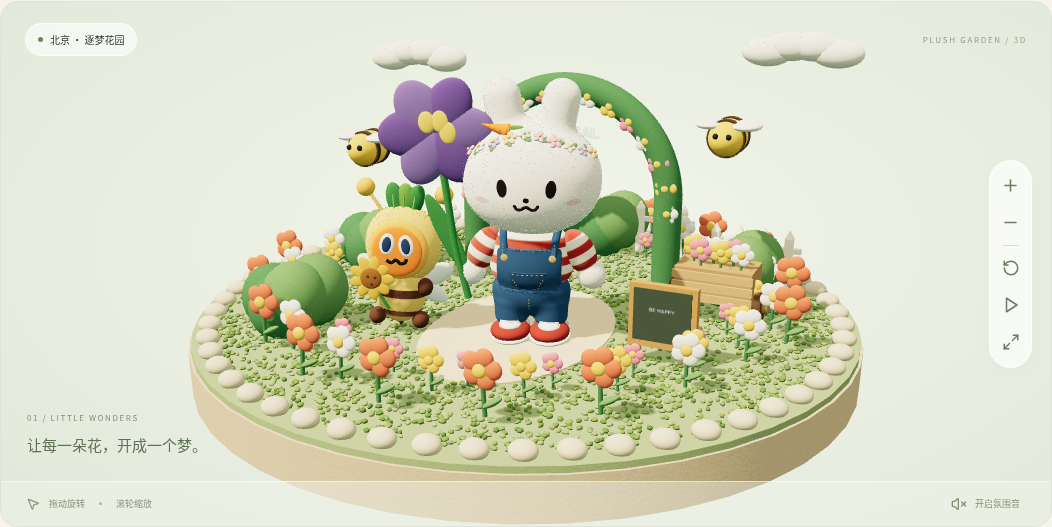
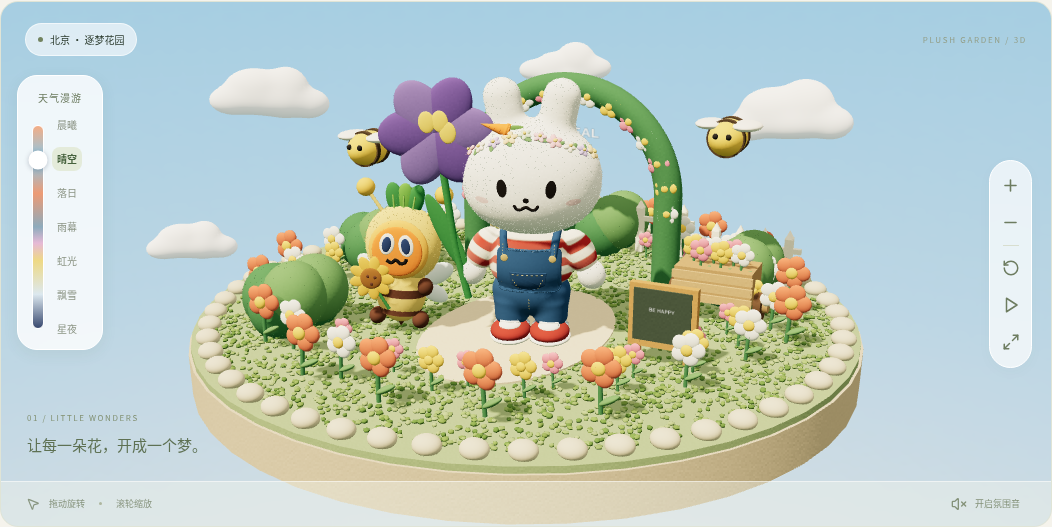
Turn weather control into an atmosphere tour and soften clouds and rabbit shoulders

diff --git a/src/style.css b/src/style.css
@@ -1,11 +1,15 @@
 @import url('https://fonts.googleapis.com/css2?family=Noto+Sans+SC:wght@400;500;600;700;800;900&family=DM+Sans:wght@400;500;600;700&display=swap');
 :root{font-family:'DM Sans','Noto Sans SC',sans-serif;color:#2e3d30;background:#f5f3ec;font-synthesis:none;font-weight:400}*{box-sizing:border-box}body{margin:0}button,a{-webkit-tap-highlight-color:transparent}button{font:inherit;cursor:pointer}button:focus-visible,a:focus-visible{outline:3px solid #b2bc70;outline-offset:4px}a{color:inherit;text-decoration:none}button{color:inherit}header{height:98px;display:flex;align-items:center;margin:0 5%;border-bottom:1px solid #dedfd3;gap:65px}.brand{font-weight:900;font-size:24px;letter-spacing:-1.4px;line-height:.95;display:flex;flex-direction:column;transform:rotate(-3deg)}.brand>span{font-size:25px;letter-spacing:4px}.brand-dot{color:#97a65b;font-size:26px}nav{display:flex;gap:36px;font-size:12px;align-items:center;height:100%}nav a{height:100%;display:flex;align-items:center;gap:10px;position:relative}nav a.selected:after{content:'';position:absolute;bottom:-1px;left:0;width:30px;height:3px;background:#577b52}nav a span{font-size:9px;letter-spacing:1px;color:#9b9e91}nav button{display:flex;align-items:center;gap:8px;border:0;background:none}.header-end{margin-left:auto;display:flex;gap:9px;align-items:center;font-size:11px;color:#8a8c7d}.live-dot{width:6px;height:6px;border-radius:50%;display:inline-block;background:#819964;flex-shrink:0}.edition{margin-left:28px;border:1px solid #d8dacc;border-radius:20px;padding:7px 11px;font-size:9px;letter-spacing:1px}main{max-width:1550px;margin:auto;padding:45px 5% 0}.intro{position:relative;margin-bottom:31px}.eyebrow{font-size:9px;letter-spacing:2.5px;font-weight:600;color:#858b76;display:flex;gap:9px;align-items:center}.eyebrow>span{width:5px;height:5px;border-radius:50%;background:#899d63}h1{font-size:clamp(34px,3.7vw,57px);font-weight:800;letter-spacing:-2px;margin:14px 0 10px;line-height:1.3}.serif{font-family:serif;color:#698056;font-weight:500;margin-left:4px}.title-flower{display:inline-block;font-size:46px;color:#b3bb78;position:relative;top:-8px;margin-left:23px;font-weight:400}.intro-bottom{display:flex;align-items:center;justify-content:space-between}.intro-bottom p{font-size:12px;line-height:1.9;color:#8b8e80;margin:0}.intro-note{text-align:right;font-size:11px;line-height:1.9;color:#69725e}.intro-note span{font-size:10px;color:#a0a28f}.experience{display:grid;grid-template-columns:218px 1fr;gap:26px}.section-label{display:flex;justify-content:space-between;font-size:11px;margin-bottom:15px;color:#6f7866}.section-label span{font-size:9px;letter-spacing:1px;color:#a1a591}.scene-list{display:flex;flex-direction:column;gap:12px}.scene-card{position:relative;display:block;width:100%;height:145px;border:1px solid #dfe1d3;border-radius:13px;background:#ebece2;padding:13px 16px;text-align:left;overflow:hidden;transition:background .25s,transform .25s,border-color .25s}.scene-card:hover{transform:translateX(3px);border-color:#a4b494}.scene-card.active{border:1.5px solid #6d855f;background:#e7ecd9}.card-top{position:relative;z-index:2;display:flex;gap:10px;align-items:center}.scene-number{font-size:10px;color:#8a9580}.city{font-size:10px;border:1px solid #b7c4a9;border-radius:12px;padding:2px 7px;color:#6b7d61}.card-top>svg{margin-left:auto;color:var(--accent)}.card-bottom{position:absolute;bottom:16px;z-index:2}.card-bottom h3{font-size:18px;font-weight:600;margin:0 0 5px;letter-spacing:1px}.card-bottom>span{font-size:7px;letter-spacing:1.6px;color:#929a87}.mini-art{position:absolute;right:19px;top:45px;color:var(--accent);transform:rotate(-15deg)}.mini-orbit{position:absolute;width:86px;height:86px;border-radius:50%;background:#d5dfc5;top:-15px;left:-20px;z-index:0}.mini-art svg{position:relative;z-index:1}.mini-star{position:absolute;right:-14px;top:-15px;color:#c6ae67;font-size:20px}.mini-dot{width:10px;height:10px;border-radius:50%;background:#e4c475;position:absolute;bottom:-5px;left:-18px}.art-1 .mini-orbit{background:#dddde7}.art-2 .mini-orbit{background:#d5e4df}.sidebar-note{display:flex;gap:12px;align-items:center;padding:22px 4px;color:#9aa381}.sidebar-note>span{font-size:27px}.sidebar-note p{font-size:10px;line-height:1.8;margin:0}.sidebar-note strong{font-weight:400;font-size:9px;color:#a2a58f}.stage-wrap{height:526px;position:relative;border:1px solid #e0e4d6;border-radius:18px;overflow:hidden;background:radial-gradient(ellipse at 53% 46%,#f3f5e9 0%,#e6ecdf 70%,#e1e8d8 100%);transition:background .5s}.theme-1 .stage-wrap{background:radial-gradient(ellipse at 50% 48%,#d9dcec,#b6c1d2)}.theme-2 .stage-wrap{background:radial-gradient(ellipse at 50% 48%,#e8f0e7,#d8e7df)}.stage{position:absolute;inset:0}.stage canvas{display:block;touch-action:none}.stage-top{position:absolute;top:21px;left:24px;right:24px;display:flex;justify-content:space-between;align-items:center;z-index:2;pointer-events:none}.scene-pill{font-size:10px;background:#ffffff9c;border:1px solid #fff9;border-radius:20px;padding:8px 12px;display:flex;gap:7px;align-items:center}.scene-pill>span{width:5px;height:5px;border-radius:50%;background:#72835f}.stage-tag{font-size:8px;letter-spacing:1.7px;color:#939e87}.stage-caption{position:absolute;left:26px;bottom:63px;pointer-events:none}.stage-caption>span{font-size:8px;letter-spacing:1.6px;color:#829173}.stage-caption h2{font-size:15px;font-weight:500;margin:8px 0;color:#5e7153}.floating-tools{position:absolute;right:19px;top:50%;transform:translateY(-50%);background:#ffffffb5;backdrop-filter:blur(10px);border:1px solid #fff;border-radius:25px;display:flex;flex-direction:column;align-items:center;padding:7px 3px;gap:2px;box-shadow:0 4px 15px #48633b07}.floating-tools button{height:35px;width:35px;background:none;border:0;border-radius:50%;display:grid;place-items:center;color:#6d7c60}.floating-tools button:hover{background:#dce5d1}.floating-tools i{height:1px;width:16px;background:#d8decf;margin:3px}.stage-footer{position:absolute;bottom:0;width:100%;height:45px;display:flex;justify-content:space-between;align-items:center;padding:0 25px;border-top:1px solid #ffffff85;background:#f3f5eb6b;font-size:9px;color:#899680}.stage-footer>div{display:flex;gap:9px;align-items:center}.stage-footer i{height:3px;width:3px;background:#aeb69f;border-radius:50%;margin:0 5px}.stage-footer button{border:0;background:none;display:flex;gap:8px;align-items:center;font-size:9px;color:#849279}.stage-footer .sound-on{color:#45694c}.below{display:flex;align-items:center;gap:24px;margin:26px 0 35px;padding:20px 0;border-top:1px solid #e0e1d6;border-bottom:1px solid #e0e1d6}.below-heading{display:flex;gap:15px;align-items:center}.tiny-star{color:#a1ad7c;font-size:33px}.small{font-size:7px;letter-spacing:1.5px}.below h3{font-size:12px;font-weight:500;margin:7px 0 0}.animation-tags{display:flex;gap:14px;margin-left:auto}.animation-tags>span{display:flex;align-items:center;gap:7px;font-size:9px;color:#8c9480;background:#edeee4;border-radius:20px;padding:8px 10px;white-space:nowrap}.animation-tags .live-dot{width:4px;height:4px}.next-stop{display:flex;align-items:center;gap:12px;background:none;border:0;border-left:1px solid #dce0d0;padding-left:25px;font-size:10px;white-space:nowrap}footer{display:flex;justify-content:space-between;margin:0 5% 25px;font-size:8px;color:#a0a38f;letter-spacing:1px;align-items:center}.footer-flower{font-size:18px;color:#9da97a;margin-left:10px}.loading{position:absolute;inset:0;display:grid;place-items:center;font-size:12px;color:#839271;background:#e6ecdf}.modal-backdrop{position:fixed;inset:0;background:#25332765;backdrop-filter:blur(8px);z-index:10;display:grid;place-items:center;padding:20px}.modal{max-width:530px;padding:46px;border-radius:24px;background:#f5f3ec;position:relative}.close{position:absolute;right:20px;top:20px;border:0;background:none}.modal h2{font-size:30px;line-height:1.6;font-weight:700}.modal h3{font-size:16px;margin-top:25px}.modal p{font-size:13px;color:#7c8671;line-height:2}.modal-hints{display:flex;gap:10px;font-size:11px;align-items:center;color:#738563;margin:25px 0}.primary{padding:13px 18px;border:0;background:#607852;color:white;display:flex;gap:20px;align-items:center;border-radius:10px;font-size:12px}.stage-wrap:fullscreen{width:100vw;height:100vh}.theme-1 .stage-caption h2{color:#495d77}.theme-1 .stage-caption>span,.theme-1 .stage-tag{color:#67758e}@media(min-width:1550px){header,footer{max-width:1395px;margin-left:auto;margin-right:auto}.stage-wrap{height:610px}.scene-card{height:171px}}@media(max-width:1000px){header{gap:30px}.header-end{font-size:0;gap:0}.header-end .edition{font-size:9px}.experience{grid-template-columns:180px 1fr;gap:18px}.scene-card{padding:12px}.mini-art{right:12px}.animation-tags{gap:6px}.animation-tags>span{font-size:8px;padding:7px}.below{gap:12px}.next-stop{padding-left:15px}.below-heading{gap:8px}.below h3{font-size:10px}}@media(max-width:700px){header{height:80px;gap:25px}.brand{font-size:20px}.brand>span{font-size:20px}nav{gap:16px;font-size:10px}nav a span,.header-end,nav button svg{display:none}main{padding-top:30px}h1{font-size:38px}.title-flower{font-size:32px;margin-left:14px}.intro-note{font-size:9px}.intro-note span{font-size:8px}.experience{display:flex;flex-direction:column;gap:15px}.sidebar-note,.section-label{display:none}.scene-list{flex-direction:row;gap:8px}.scene-card{height:105px;flex:1;padding:10px}.card-top{gap:5px}.card-top>svg{width:13px}.city{font-size:8px;padding:1px 5px}.card-bottom{bottom:11px}.card-bottom h3{font-size:14px}.card-bottom>span{font-size:5px;letter-spacing:.7px}.mini-art{right:12px;top:44px;opacity:.45}.mini-art svg{width:29px;height:29px}.mini-orbit{width:55px;height:55px;left:-13px;top:-10px}.mini-star{font-size:13px}.mini-dot{width:6px;height:6px}.stage-wrap{height:470px}.stage-top{left:16px;right:16px}.stage-tag{font-size:6px;letter-spacing:1px}.floating-tools{right:11px}.stage-caption{left:17px;bottom:60px}.stage-caption h2{font-size:13px}.stage-footer{padding:0 15px;font-size:8px}.stage-footer button{font-size:8px}.below{flex-wrap:wrap;margin-top:20px;padding:16px 0;gap:15px}.below-heading{flex:1}.below h3{font-size:11px}.animation-tags{order:3;margin:0;width:100%;gap:8px}.animation-tags>span{flex:1;justify-content:center}.next-stop{padding-left:10px;font-size:9px}footer{font-size:6px;letter-spacing:.3px;gap:20px}footer>span:last-child{font-size:8px}.modal{padding:35px 25px}.modal h2{font-size:26px}}
 .card-top{position:absolute;left:16px;right:16px;top:13px}@media(max-width:700px){.card-top{left:10px;right:10px;top:10px}}
-.sky-bar{position:absolute;left:18px;top:74px;z-index:3;display:flex;flex-direction:column;align-items:center;gap:6px;width:52px;padding:10px 0 12px;color:#6d7c60;font-size:10px;letter-spacing:1px;background:#ffffffc2;backdrop-filter:blur(10px);border:1px solid #fff;border-radius:26px;box-shadow:0 4px 15px #48633b14}
-.sky-bar>span:first-child{white-space:nowrap}
-.sky-track{width:16px;height:168px;border-radius:20px;position:relative;touch-action:none;cursor:pointer;border:1px solid #fff;background:linear-gradient(to bottom,#f4a57c 0%,#78bcee 24%,#4f9edc 46%,#e88858 64%,#7f97a8 74%,#f0a0a8 78%,#f2d36b 80%,#8fcaea 82%,#e7eef3 88%,#1d305c 100%)}
-.sky-track:focus-visible{outline:3px solid #b2bc70;outline-offset:3px}
-.sky-track i{position:absolute;left:50%;width:20px;height:20px;border-radius:50%;background:#fff;border:2px solid #fff;box-shadow:0 1px 5px #24304844;transform:translate(-50%,-50%);pointer-events:none}
-.sky-end{font-size:9px;letter-spacing:.4px}
+.sky-bar{position:absolute;left:16px;top:73px;z-index:3;width:86px;padding:14px 10px 20px;color:#6d7c60;background:#ffffffcf;backdrop-filter:blur(10px);border:1px solid #fff;border-radius:20px;box-shadow:0 4px 15px #48633b14}
+.sky-title{display:block;text-align:center;font-size:10px;letter-spacing:1px;margin-bottom:20px}
+.sky-selector{display:flex;gap:8px;height:204px;padding-left:4px}
+.sky-track{width:12px;height:100%;flex-shrink:0;border-radius:20px;position:relative;touch-action:none;cursor:pointer;border:1px solid #fff;background:linear-gradient(to bottom,#f4ad85 0%,#86c9eb 16.67%,#ed9b75 33.33%,#8dabbc 50%,#e6b9d6 58%,#eed984 66.67%,#dce8ef 83.33%,#38496f 100%)}
+.sky-track:focus-visible{outline:3px solid #b2bc70;outline-offset:4px}
+.sky-track i{position:absolute;left:50%;width:19px;height:19px;border-radius:50%;background:#fff;border:3px solid #fff;box-shadow:0 1px 5px #24304844;transform:translate(-50%,-50%);pointer-events:none}
+.sky-stops{position:relative;flex:1}
+.sky-stops button{position:absolute;left:0;transform:translateY(-50%);border:0;border-radius:8px;background:none;padding:6px 5px;font-size:10px;white-space:nowrap;color:#8c9585;line-height:1.2}
+.sky-stops button:hover{background:#e8eedf;color:#506848}
+.sky-stops button.active{color:#46623d;background:#e4ebda;font-weight:600}
 .sky-late .stage-caption h2,.sky-late .stage-caption>span,.sky-late .stage-tag{color:#f7f8f2}
-@media(max-width:700px){.sky-bar{left:10px;top:52px;width:46px;padding:8px 0}.sky-track{height:120px}}
+@media(max-width:700px){.sky-bar{left:8px;top:53px;width:76px;padding:11px 7px 16px;border-radius:16px}.sky-selector{height:168px;gap:5px;padding-left:3px}.sky-title{font-size:9px;margin-bottom:17px}.sky-stops button{font-size:9px;padding:5px}.sky-track{width:10px}}

diff --git a/src/main.jsx b/src/main.jsx
@@ -5,9 +5,12 @@ import {createWorld} from './world';
 import './style.css';
 const scenes=[{name:'逐梦花园',en:'THE DREAM GARDEN',city:'北京',tag:'让每一朵花，开成一个梦。',desc:'穿过开满鲜花的绿色拱门，和小兔一起照顾这座小小花园。听风经过，等梦想慢慢发芽。',color:'#52764e',icon:Flower2,details:['毛绒兔子轻轻呼吸','毛毡花朵随风摇摆','蜜蜂绕园飞行']},{name:'海上望月',en:'MOONLIGHT VOYAGE',city:'上海',tag:'把月亮，装进今晚的航程。',desc:'登上星光下的小船，去看一轮触手可及的月亮。城市闪闪发亮，每一次出发都有朋友相伴。',color:'#64689c',icon:Moon,details:['游船随波起伏','水面涟漪流动','小兔抬头望月']},{name:'荷你相见',en:'A LITTLE LOTUS DAY',city:'杭州',tag:'在荷叶之间，遇见好心情。',desc:'一片荷叶，一座小桥，一趟慢悠悠的湖上旅行。让热气球带走烦恼，把今天留给微风与荷花。',color:'#56858a',icon:Leaf,details:['热气球轻盈漂浮','荷叶随水摆动','画舫悠然漫游']}];
 const skyDefault=theme=>theme===1?1:.42;
+const weatherStops=[{name:'晨曦',value:0},{name:'晴空',value:.42},{name:'落日',value:.64},{name:'雨幕',value:.73},{name:'虹光',value:.80},{name:'飘雪',value:.88},{name:'星夜',value:1}];
+function weatherPosition(value){let i=0;while(i<weatherStops.length-2&&value>weatherStops[i+1].value)i++;return (i+(value-weatherStops[i].value)/(weatherStops[i+1].value-weatherStops[i].value))/6}
+function weatherValue(position){const x=Math.max(0,Math.min(1,position))*6,i=Math.min(5,Math.floor(x));return weatherStops[i].value+(weatherStops[i+1].value-weatherStops[i].value)*(x-i)}
 function App(){const [active,setActive]=useState(0),[paused,setPaused]=useState(false),[info,setInfo]=useState(false),[sound,setSound]=useState(false),[ready,setReady]=useState(false),[sky,setSkyTime]=useState(skyDefault(0));const mount=useRef(),api=useRef(),audio=useRef();const current=scenes[active];
 function applySky(value){const next=Math.min(1,Math.max(0,value));setSkyTime(next);api.current?.setSky(next)}
-function pickSky(event){if(event.type==='pointermove'&&event.buttons!==1)return;const bar=event.currentTarget.getBoundingClientRect();applySky((event.clientY-bar.top)/bar.height);event.currentTarget.setPointerCapture?.(event.pointerId)}
+function pickSky(event){if(event.type==='pointermove'&&event.buttons!==1)return;const bar=event.currentTarget.getBoundingClientRect();applySky(weatherValue((event.clientY-bar.top)/bar.height));event.currentTarget.setPointerCapture?.(event.pointerId)}
 useEffect(()=>{const next=skyDefault(active);setSkyTime(next);setReady(false);try{api.current=createWorld(mount.current,active,()=>setReady(true),next);api.current.pause(paused)}catch(e){console.error(e);setReady(false)}return()=>api.current?.dispose()},[active]);
 useEffect(()=>{api.current?.pause(paused)},[paused]);
 useEffect(()=>()=>{audio.current?.close()},[]);
@@ -15,7 +18,7 @@ function toggleSound(){if(sound){audio.current?.suspend();setSound(false);return
 return <div className={`app theme-${active}`}><header><a className="brand" href="#" onClick={e=>{e.preventDefault();setActive(0)}}>STAYREAL<span>PARK <span className="brand-dot">✳</span></span></a><nav><a className="selected" href="#world">探索公园 <span>EXPLORE</span></a><button onClick={()=>setInfo(true)}>关于这趟旅程 <ArrowUpRight size={14}/></button></nav><div className="header-end"><span className="live-dot"/> 一点想象，无限快乐 <span className="edition">VOL. 001</span></div></header>
 <main id="world"><section className="intro"><div className="eyebrow"><span/> A SMALL WORLD, A BIG DREAM</div><h1>把梦装进<span className="serif">口袋</span><span className="title-flower">✳</span></h1><div className="intro-bottom"><p>欢迎来到拥抱公园。<br/>转个角度，让快乐发生。</p><div className="intro-note">三个城市 · 三种奇遇<br/><span>你的微缩世界，正在生长</span></div></div></section>
 <section className="experience"><aside className="sidebar"><div className="section-label">选择一站 <span>01 — 03</span></div><div className="scene-list">{scenes.map((s,i)=>{const Icon=s.icon;return <button key={s.name} className={`scene-card ${active===i?'active':''}`} onClick={()=>setActive(i)} style={{'--accent':s.color}}><div className="card-top"><span className="scene-number">0{i+1}</span><span className="city">{s.city}站</span>{active===i?<ArrowUpRight size={19}/>:<ArrowRight size={17}/>}</div><div className={`mini-art art-${i}`}><div className="mini-orbit"/><Icon size={46} strokeWidth={1.2}/><span className="mini-star">✦</span><span className="mini-dot"/></div><div className="card-bottom"><h3>{s.name}</h3><span>{s.en}</span></div></button>})}</div><div className="sidebar-note"><span>✳</span><p>慢一点也没关系<br/><strong>这里的快乐，没有截止日期。</strong></p></div></aside>
-<div className={`stage-wrap${sky>.9?' sky-late':''}`}><div className="stage-top"><span className="scene-pill"><span/> {current.city} · {current.name}</span><span className="stage-tag">{active===0?'PLUSH GARDEN / 3D':'LIVE MINIATURE / 3D'}</span></div><div className="stage" ref={mount}/>{!ready&&<div className="loading">正在唤醒小小世界…</div>}<div className="sky-bar"><span>天气</span><span className="sky-end">早</span><div className="sky-track" role="slider" tabIndex={0} aria-label="调整天气，从上到下是清晨白云、夕阳、下雨、彩虹、下雪和星空" aria-orientation="vertical" aria-valuemin={0} aria-valuemax={100} aria-valuenow={Math.round(sky*100)} onPointerDown={pickSky} onPointerMove={pickSky} onKeyDown={e=>{const step=e.shiftKey?.1:.04;if(e.key==='ArrowDown'||e.key==='ArrowRight'){e.preventDefault();applySky(sky+step)}if(e.key==='ArrowUp'||e.key==='ArrowLeft'){e.preventDefault();applySky(sky-step)}if(e.key==='Home')applySky(0);if(e.key==='End')applySky(1)}}><i style={{top:`${sky*100}%`}}/></div><span className="sky-end">晚</span></div><div className="stage-caption"><span>0{active+1} / LITTLE WONDERS</span><h2>{current.tag}</h2></div><div className="floating-tools"><button aria-label="放大" title="放大" onClick={()=>api.current.zoom(.85)}><Plus size={19}/></button><button aria-label="缩小" title="缩小" onClick={()=>api.current.zoom(1.15)}><Minus size={19}/></button><i/><button aria-label="重置视角" title="重置视角" onClick={()=>api.current.reset()}><RotateCcw size={18}/></button><button aria-label={paused?'继续动画':'暂停动画'} title={paused?'继续动画':'暂停动画'} onClick={()=>setPaused(!paused)}>{paused?<Play size={18}/>:<Pause size={18}/>}</button><button aria-label="全屏" title="全屏" onClick={()=>{const target=mount.current.parentElement;if(document.fullscreenElement)document.exitFullscreen();else target.requestFullscreen?.()}}><Maximize2 size={18}/></button></div><div className="stage-footer"><div><MousePointer2 size={14}/><span>拖动旋转</span><i/><span>滚轮缩放</span></div><button className={sound?'sound-on':''} onClick={toggleSound}>{sound?<Volume2 size={16}/>:<VolumeX size={16}/>}<span>{sound?'氛围音已开启':'开启氛围音'}</span></button></div></div></section>
+<div className={`stage-wrap${sky>.9?' sky-late':''}`}><div className="stage-top"><span className="scene-pill"><span/> {current.city} · {current.name}</span><span className="stage-tag">{active===0?'PLUSH GARDEN / 3D':'LIVE MINIATURE / 3D'}</span></div><div className="stage" ref={mount}/>{!ready&&<div className="loading">正在唤醒小小世界…</div>}<div className="sky-bar"><span className="sky-title">天气漫游</span><div className="sky-selector"><div className="sky-track" role="slider" tabIndex={0} aria-label="天气漫游" aria-orientation="vertical" aria-valuemin={0} aria-valuemax={6} aria-valuenow={Math.round(weatherPosition(sky)*6*100)/100} aria-valuetext={weatherStops[Math.round(weatherPosition(sky)*6)].name} onPointerDown={pickSky} onPointerMove={pickSky} onKeyDown={e=>{const direction=['ArrowDown','ArrowRight'].includes(e.key)?1:['ArrowUp','ArrowLeft'].includes(e.key)?-1:0;if(direction){e.preventDefault();applySky(weatherStops[Math.max(0,Math.min(6,Math.round(weatherPosition(sky)*6)+direction))].value)}if(e.key==='Home'||e.key==='End'){e.preventDefault();applySky(e.key==='Home'?0:1)}}}><i style={{top:`${weatherPosition(sky)*100}%`}}/></div><div className="sky-stops">{weatherStops.map((stop,i)=><button key={stop.name} className={Math.round(weatherPosition(sky)*6)===i?'active':''} style={{top:`${i/6*100}%`}} aria-label={`切换到${stop.name}`} aria-pressed={Math.round(weatherPosition(sky)*6)===i} onClick={()=>applySky(stop.value)}>{stop.name}</button>)}</div></div></div><div className="stage-caption"><span>0{active+1} / LITTLE WONDERS</span><h2>{current.tag}</h2></div><div className="floating-tools"><button aria-label="放大" title="放大" onClick={()=>api.current.zoom(.85)}><Plus size={19}/></button><button aria-label="缩小" title="缩小" onClick={()=>api.current.zoom(1.15)}><Minus size={19}/></button><i/><button aria-label="重置视角" title="重置视角" onClick={()=>api.current.reset()}><RotateCcw size={18}/></button><button aria-label={paused?'继续动画':'暂停动画'} title={paused?'继续动画':'暂停动画'} onClick={()=>setPaused(!paused)}>{paused?<Play size={18}/>:<Pause size={18}/>}</button><button aria-label="全屏" title="全屏" onClick={()=>{const target=mount.current.parentElement;if(document.fullscreenElement)document.exitFullscreen();else target.requestFullscreen?.()}}><Maximize2 size={18}/></button></div><div className="stage-footer"><div><MousePointer2 size={14}/><span>拖动旋转</span><i/><span>滚轮缩放</span></div><button className={sound?'sound-on':''} onClick={toggleSound}>{sound?<Volume2 size={16}/>:<VolumeX size={16}/>}<span>{sound?'氛围音已开启':'开启氛围音'}</span></button></div></div></section>
 <section className="below"><div className="below-heading"><span className="tiny-star">✳</span><div><span className="eyebrow small">EVERY LITTLE THING IS ALIVE</span><h3>小小世界，也有大大的生命力。</h3></div></div><div className="animation-tags">{current.details.map(d=><span key={d}><span className="live-dot"/>{d}</span>)}</div><button className="next-stop" onClick={()=>setActive((active+1)%3)}>下一站奇遇 <ArrowRight size={18}/></button></section></main>
 <footer><span>© 2026 STAYREAL PARK · A FAN-MADE DIGITAL PLAYGROUND</span><span>用一点童心，拥抱整个世界。 <span className="footer-flower">✳</span></span></footer>
 {info&&<div className="modal-backdrop" onClick={()=>setInfo(false)}><div className="modal" onClick={e=>e.stopPropagation()}><button className="close" aria-label="关闭" onClick={()=>setInfo(false)}><X/></button><span className="eyebrow">WELCOME TO THE LITTLE WORLD</span><h2>快乐，可以很小。<br/>想象，可以很大。</h2><p>这是一座根据 STAYREAL PARK 海报创作的非官方数字微缩公园。我们把花园、月夜与西湖变成了可以转动、可以探索的小小世界。</p><h3>{current.name} · {current.city}</h3><p>{current.desc}</p><div className="modal-hints"><Check size={18}/> 鼠标拖动旋转 · 滚轮缩放 · 双指触控缩放</div><button className="primary" onClick={()=>setInfo(false)}>继续我的小小旅程 <ArrowUpRight size={18}/></button></div></div>}</div>}

diff --git a/src/world.js b/src/world.js
@@ -1,4 +1,5 @@
 import * as T from 'three';
+import {createCloudGeometry} from './sky-clouds';
 import {OrbitControls} from 'three/addons/controls/OrbitControls.js';
 import {addRabbit,addBeeCarrot} from './characters';
 import {createTextilePalette,decoratePlushGarden,addFeltGround} from './textiles';
@@ -16,6 +17,7 @@ export function createWorld(el,theme,onReady,hour=theme===1?1:.42){
   {t:.48,c:['#3d8fd4','#4f9edc','#7ebbe8','#f4efe2','#e3ecd2'],hemi:0xfff8e5,hemiI:1.9,sunC:0xffedcf,sunI:3.6,exp:1.3,at:[-2,12]},
   {t:.64,c:['#e36a42','#f09458','#f6c08a','#f8d7b0','#f0d2b4'],hemi:0xffb090,hemiI:1.05,sunC:0xff7a45,sunI:1.7,exp:1.12,at:[3,5]},
   {t:.76,c:['#5d7384','#6e8796','#8ea4b0','#c5d0d4','#d5ddd8'],hemi:0xb7c4cc,hemiI:.75,sunC:0x9aa8b0,sunI:.45,exp:1.05,at:[2,7]},
+  {t:.80,c:['#83b5df','#a9d0ea','#d1e5ef','#f8f3df','#e6ecd8'],hemi:0xfff3df,hemiI:1.45,sunC:0xffedcf,sunI:2.4,exp:1.22,at:[-1,9]},
   {t:.88,c:['#c5d5e2','#d7e4ee','#e8eef4','#f5f7f8','#eef2f4'],hemi:0xe4eef6,hemiI:1,sunC:0xd5e2ee,sunI:.7,exp:1.16,at:[1,8]},
   {t:1,c:['#070e26','#0c1c48','#16356e','#1e4e8c','#2a62a4'],hemi:0x8ea0d4,hemiI:.55,sunC:0x8ea6d0,sunI:.32,exp:.92,at:[6,3.2]}
  ];
@@ -37,12 +39,12 @@ export function createWorld(el,theme,onReady,hour=theme===1?1:.42){
   skyTexture.needsUpdate=true;
   const gate=(start,end,fade=.08)=>Math.max(0,Math.min(1,Math.min((t-(start-fade))/fade,((end+fade)-t)/fade)));
   const cloudW=Math.max(gate(0,.66,.1),gate(.7,.82,.05)*.85);
-  const sunset=gate(.55,.72,.06),rainW=gate(.69,.77,.04),rbW=gate(.77,.83,.04),snowW=gate(.82,.93,.04),starW=gate(.94,1.08,.05);
+  const sunset=gate(.59,.66,.04),rainW=gate(.70,.74,.035),rbW=gate(.79,.81,.025),snowW=gate(.86,.90,.04),starW=gate(.98,1.08,.06);
   skyT=t;sunPivot.visible=false;
   const cloudOpacity=Math.min(1,Math.max(cloudW*(1-starW),rainW*.92,snowW*.55));
   const warm=Math.max(0,1-t/.4),cloudTint=mixHex(mixHex(mixHex(mixHex(0xfff7ee,0xffc7a4,warm),0xff8d58,sunset*.9),0x9eb0c0,rainW),0xe7eef6,snowW*.75);
   cloudTintHex=cloudTint;cloudMats.forEach(m=>{m.opacity=cloudOpacity;m.color.setHex(cloudTint)});
-  clouds.forEach(g=>{g.visible=cloudOpacity>.04;const s=g.userData.s*(1+rainW*.06);g.scale.set(s,s*.78,s*.15)});
+  clouds.forEach(g=>{g.visible=cloudOpacity>.04;const s=g.userData.s*(1+rainW*.06);g.scale.set(s,s*.88,s*.72)});
   rain.visible=rainW>.04;rainMat.opacity=rainW;snow.visible=snowW>.04;snowMats.forEach(m=>m.opacity=snowW);
   rbGroup.visible=rbW>.04;rbMats.forEach((m,i)=>m.opacity=.8*Math.min(1,Math.max(0,rbW*1.6-i*.1)));applyCover(snowW*snowW*(3-2*snowW));
   starDotMat.opacity=starW;starLineMat.opacity=starW;starGroup.visible=starW>.04;feltClouds.forEach(g=>g.visible=false);
@@ -71,13 +73,11 @@ export function createWorld(el,theme,onReady,hour=theme===1?1:.42){
  const sunDisc=new T.Mesh(new T.CircleGeometry(.62,40),plain(0xfff7dc,1));sunDisc.renderOrder=3;
  sunPivot.add(sunHalo,sunRays,sunDisc);
  const cloudMats=[],clouds=[];
- const cloudGeo=new T.SphereGeometry(1,24,16);
- {const p=cloudGeo.attributes.position,col=new Float32Array(p.count*3);for(let i=0;i<p.count;i++){const k=Math.min(1,Math.max(0,(p.getY(i)+.5)/1.4)),e=k*k*(3-2*k);col[i*3]=.76+.24*e;col[i*3+1]=.83+.17*e;col[i*3+2]=.96+.04*e}cloudGeo.setAttribute('color',new T.BufferAttribute(col,3))}
- const cloudMat=new T.MeshBasicMaterial({color:0xffffff,vertexColors:true,transparent:true,depthWrite:false,toneMapped:false});cloudMats.push(cloudMat);
- const puffs=[[0,0,0,.95],[.9,-.2,.05,.7],[-.9,-.24,-.04,.66],[1.6,-.43,0,.42],[-1.62,-.45,.02,.4],[.4,.46,.1,.62],[-.38,.38,-.05,.54]];
- [3.5,3,3.3,2.7,3.1,2.6,2.9,3.2].forEach((s,n)=>{
+ const cloudMat=new T.MeshStandardMaterial({color:0xffffff,vertexColors:true,roughness:1,emissive:0xd6e0eb,emissiveIntensity:.22,transparent:true,depthWrite:false});cloudMats.push(cloudMat);
+ const cloudGeometries=Array.from({length:3},(_,i)=>createCloudGeometry(i));
+ [2.3,1.8,2.5,1.7].forEach((s,n)=>{
   const g=new T.Group();g.visible=false;g.userData={s};skyFx.add(g);clouds.push(g);
-  puffs.forEach(([px,py,pz,ps])=>{const m=new T.Mesh(cloudGeo,cloudMat);m.position.set(px*(n%2?-1:1),py,pz);m.scale.set(ps,ps*.82,ps*.9);m.renderOrder=1;g.add(m)});
+  const cloud=new T.Mesh(cloudGeometries[n%3],cloudMat);cloud.name='soft-sky-cloud';cloud.rotation.z=(n%3-1)*.09;g.add(cloud);
  });
  const rainSeeds=scatter(150,17,15,.2,6.2),snowSeeds=scatter(80,16,14,.3,6.8),crystalSeeds=scatter(26,16,14,.3,6.8,500);
  const rain=new T.Group(),rainMat=plain(0xdcecfa,0,{map:dropTex});
@@ -254,7 +254,7 @@ export function createWorld(el,theme,onReady,hour=theme===1?1:.42){
  controls.addEventListener('change',()=>{viewChanged=true});
  const skyDir=new T.Vector3(),skyRight=new T.Vector3(),skyUp=new T.Vector3();
  function skyPoint(rx,uy,target){camera.getWorldDirection(skyDir);skyRight.crossVectors(skyDir,camera.up).normalize();skyUp.crossVectors(skyRight,skyDir).normalize();skyDir.addScaledVector(skyRight,rx).addScaledVector(skyUp,uy).normalize();const bb=camera.position.dot(skyDir),tp=-bb+Math.sqrt(Math.max(0,bb*bb-(camera.position.lengthSq()-skyR*skyR)));return target.copy(camera.position).addScaledVector(skyDir,tp)}
- function stickSky(){if(skyStuck||el.clientWidth<2)return;skyStuck=true;controls.update();[[-.42,.18],[-.14,.2],[.12,.17],[.38,.14],[-.3,.11],[.05,.09],[.24,.21],[-.08,.13]].forEach(([rx,uy],i)=>{if(!clouds[i])return;skyPoint(rx,uy,clouds[i].position);clouds[i].lookAt(0,0,0)});for(let i=0;i<starLineN;i++){const main=i<32,u=main?i/31:(i-32)/13,rx=main?-.55+Math.pow(u,.85)*.95+(hash(i+3)-.5)*.04:.08+u*.22,uy=main?.04+u*.13+Math.sin(u*Math.PI)*.045+(hash(i+9)-.5)*.016:.16-u*.08+(hash(i+5)-.5)*.014;skyPoint(rx,uy,starAnchor.position);starAnchor.up.set(0,1,0);starAnchor.lookAt(0,0,0);const sz=.5+hash(i+80)*.34+(main&&u>.35&&u<.6?.2:0);starAnchor.scale.set(sz,sz,1);starAnchor.updateMatrix();starLine.setMatrixAt(i,starAnchor.matrix)}starLine.instanceMatrix.needsUpdate=true;setSky(skyT)}
+ function stickSky(){if(skyStuck||el.clientWidth<2)return;skyStuck=true;controls.update();[[-.26,.17],[.04,.20],[.27,.15],[-.34,.02]].forEach(([rx,uy],i)=>{if(!clouds[i])return;skyPoint(rx,uy,clouds[i].position);clouds[i].lookAt(0,0,0)});for(let i=0;i<starLineN;i++){const main=i<32,u=main?i/31:(i-32)/13,rx=main?-.55+Math.pow(u,.85)*.95+(hash(i+3)-.5)*.04:.08+u*.22,uy=main?.04+u*.13+Math.sin(u*Math.PI)*.045+(hash(i+9)-.5)*.016:.16-u*.08+(hash(i+5)-.5)*.014;skyPoint(rx,uy,starAnchor.position);starAnchor.up.set(0,1,0);starAnchor.lookAt(0,0,0);const sz=.5+hash(i+80)*.34+(main&&u>.35&&u<.6?.2:0);starAnchor.scale.set(sz,sz,1);starAnchor.updateMatrix();starLine.setMatrixAt(i,starAnchor.matrix)}starLine.instanceMatrix.needsUpdate=true;setSky(skyT)}
  function resize(){const w=el.clientWidth,h=el.clientHeight;renderer.setSize(w,h);camera.aspect=w/h;camera.zoom=Math.min(1,camera.aspect/(theme===0?1.45:1.0));camera.updateProjectionMatrix();stickSky();viewChanged=true}
  const ro=new ResizeObserver(resize);ro.observe(el);resize();
  function render(){raf=requestAnimationFrame(render);const dt=clock.getDelta();if(!paused)time+=dt;controls.update();
@@ -264,5 +264,5 @@ export function createWorld(el,theme,onReady,hour=theme===1?1:.42){
      renderer.render(scene,camera);lastRender=clock.elapsedTime;viewChanged=false;
    }
  }
- render();onReady?.();return {pause(v){paused=v;viewChanged=true},setSky,reset(){camera.position.copy(defaultView);controls.target.set(0,theme===0?.85:1.1,0);controls.update();viewChanged=true},zoom(f){camera.position.sub(controls.target).multiplyScalar(f).add(controls.target);viewChanged=true},dispose(){cancelAnimationFrame(raf);ro.disconnect();controls.dispose();const geometries=new Set(),materials=new Set(),textures=new Set();scene.traverse(o=>{if(o.isInstancedMesh)o.dispose();if(o.geometry)geometries.add(o.geometry);if(o.material)(Array.isArray(o.material)?o.material:[o.material]).forEach(m=>materials.add(m))});materials.forEach(m=>{Object.values(m).forEach(v=>{if(v?.isTexture)textures.add(v)});m.dispose()});textures.forEach(t=>t.dispose());geometries.forEach(g=>g.dispose());mats.forEach(m=>{if(!materials.has(m))m.dispose()});textiles?.disposeUnused(materials);renderer.dispose();renderer.domElement.remove()}};
+ render();onReady?.();return {pause(v){paused=v;viewChanged=true},setSky,reset(){camera.position.copy(defaultView);controls.target.set(0,theme===0?.85:1.1,0);controls.update();viewChanged=true},zoom(f){camera.position.sub(controls.target).multiplyScalar(f).add(controls.target);viewChanged=true},dispose(){cancelAnimationFrame(raf);ro.disconnect();controls.dispose();const geometries=new Set(),materials=new Set(),textures=new Set();scene.traverse(o=>{if(o.isInstancedMesh)o.dispose();if(o.isSkinnedMesh)o.skeleton.dispose();if(o.geometry)geometries.add(o.geometry);if(o.material)(Array.isArray(o.material)?o.material:[o.material]).forEach(m=>materials.add(m))});materials.forEach(m=>{Object.values(m).forEach(v=>{if(v?.isTexture)textures.add(v)});m.dispose()});textures.forEach(t=>t.dispose());geometries.forEach(g=>g.dispose());mats.forEach(m=>{if(!materials.has(m))m.dispose()});textiles?.disposeUnused(materials);renderer.dispose();renderer.domElement.remove()}};
 }

diff --git a/src/rabbit-body.js b/src/rabbit-body.js
@@ -4,6 +4,7 @@ import {MarchingCubes} from 'three/addons/objects/MarchingCubes.js';
 // Coordinates are shared with the character's clothes and shoulder pivots.
 // The neck opening is deliberately broad and flat, then tucked into the head.
 const SHIRT_DEPTH = .70;
+export const RABBIT_SHOULDER = {x: .49, y: 1.26, angle: .50};
 const shirtCurve = new T.CatmullRomCurve3([
   new T.Vector3(.39, .68, 0),
   new T.Vector3(.48, .75, 0),
@@ -33,17 +34,50 @@ export function rabbitShirtFront(x, y) {
 }
 
 export function createRabbitShirtGeometry() {
-  const points = [new T.Vector2(0, .68), ...shirtProfile, new T.Vector2(0, 1.38)];
-  const geometry = new T.LatheGeometry(points, 64);
-  geometry.scale(1, 1, SHIRT_DEPTH);
-  // A linear height UV keeps the collar's stripe width predictable on the
-  // pear-shaped body; its circumference still uses the lathe's U coordinate.
-  const positions = geometry.attributes.position, uv = geometry.attributes.uv;
-  for (let i = 0; i < positions.count; i++) uv.setY(i, (positions.getY(i) - .60) / .78);
-  geometry.computeVertexNormals();
-  geometry.computeBoundingBox();
-  geometry.computeBoundingSphere();
+  // A single surface replaces the hard intersections of separate sleeves.
+  const geometry = implicitGeometry(shirtDistance,64,.98,1.05);
+  const positions=geometry.attributes.position;
+  const uv=[],indices=[],weights=[];
+  for(let i=0;i<positions.count;i++) {
+    const x=positions.getX(i),y=positions.getY(i),z=positions.getZ(i);
+    const side=x<0?-1:1,local=armCoordinates(x,y,side);
+    const sleeveWeight=T.MathUtils.smoothstep(torsoDistance(x,y,z)-sleeveDistance(local.x,local.y,z),-.065,.065);
+    // Cloth stripes turn with the sleeve and meet the torso progressively.
+    const stripeY=T.MathUtils.lerp(y,1.33+local.y,sleeveWeight);
+    uv.push(.5,(stripeY-.60)/.78);
+    // Keep the torso fixed; gradually transfer the sleeve to its shoulder.
+    const influence=sleeveWeight*T.MathUtils.smoothstep(-local.y,-.035,.24);
+    indices.push(0,side<0?1:2,0,0);
+    weights.push(1-influence,influence,0,0);
+  }
+  geometry.setAttribute('uv',new T.Float32BufferAttribute(uv,2));
+  geometry.setAttribute('skinIndex',new T.Uint16BufferAttribute(indices,4));
+  geometry.setAttribute('skinWeight',new T.Float32BufferAttribute(weights,4));
   return geometry;
+}
+
+function armCoordinates(x,y,side) {
+  const angle=side*RABBIT_SHOULDER.angle,c=Math.cos(angle),s=Math.sin(angle);
+  const dx=x-side*RABBIT_SHOULDER.x,dy=y-RABBIT_SHOULDER.y;
+  return {x:c*dx+s*dy,y:-s*dx+c*dy};
+}
+
+function torsoDistance(x,y,z) {
+  const radius=shirtRadius(T.MathUtils.clamp(y,.68,1.38));
+  return Math.max(Math.hypot(x,z/SHIRT_DEPTH)-radius,.68-y,y-1.38);
+}
+
+function sleeveDistance(x,y,z) {
+  return ellipsoidDistance(x,y+.21,z,.19,.30,.20);
+}
+
+function shirtDistance(x,y,z) {
+  let d=torsoDistance(x,y,z);
+  for(const side of [-1,1]) {
+    const local=armCoordinates(x,y,side);
+    d=smoothUnion(d,sleeveDistance(local.x,local.y,z),.065);
+  }
+  return d;
 }
 
 function ellipsoidDistance(x, y, z, rx, ry, rz) {
@@ -83,7 +117,10 @@ export function rabbitTrouserFront(x, y) {
 }
 
 export function createRabbitTrouserGeometry() {
-  const resolution = 72, extent = .70, centerY = .48;
+  return implicitGeometry(trousersDistance,72,.70,.48);
+}
+
+function implicitGeometry(distance,resolution,extent,centerY) {
   // MarchingCubes only needs a material for initialization; callers own their
   // final clothing material, and the temporary allocation is disposed here.
   const temporaryMaterial = new T.MeshBasicMaterial();
@@ -95,7 +132,7 @@ export function createRabbitTrouserGeometry() {
       const py = (y / resolution * 2 - 1) * extent + centerY;
       for (let x = 0; x < resolution; x++) {
         const px = (x / resolution * 2 - 1) * extent;
-        polygonizer.field[x + y * resolution + z * resolution * resolution] = -trousersDistance(px, py, pz);
+        polygonizer.field[x + y * resolution + z * resolution * resolution] = -distance(px, py, pz);
       }
     }
   }
@@ -103,7 +140,7 @@ export function createRabbitTrouserGeometry() {
   if (!polygonizer.count || polygonizer.count >= polygonizer.positionArray.length / 3) {
     polygonizer.geometry.dispose();
     temporaryMaterial.dispose();
-    throw new Error('Rabbit trousers exceeded their geometry buffer.');
+    throw new Error('Rabbit clothing exceeded its geometry buffer.');
   }
   const positions = polygonizer.positionArray.slice(0, polygonizer.count * 3);
   const normals = polygonizer.normalArray.slice(0, polygonizer.count * 3);

diff --git a/src/characters.js b/src/characters.js
@@ -2,7 +2,7 @@ import * as T from 'three';
 import {TessellateModifier} from 'three/addons/modifiers/TessellateModifier.js';
 import {mergeVertices} from 'three/addons/utils/BufferGeometryUtils.js';
 import {addRabbitHead} from './rabbit-head';
-import {createRabbitShirtGeometry,rabbitShirtFront,createRabbitTrouserGeometry,rabbitTrouserFront} from './rabbit-body';
+import {RABBIT_SHOULDER,createRabbitShirtGeometry,rabbitShirtFront,createRabbitTrouserGeometry,rabbitTrouserFront} from './rabbit-body';
 import {finishTextile} from './textiles';
 
 // Shared sculpted characters with physical mascot proportions.
@@ -55,18 +55,18 @@ export function addRabbit(world,moving,mat,x,z,scale=1,theme=0) {
     const fabric=mat(P.white).clone();fabric.map=texture;fabric.roughness=.88;if(theme===0)finishTextile(fabric,'canvas');return fabric;
   }
   const shirtFabric=!lake?stripedFabric(8,true):null;
-  const sleeveFabric=!lake?stripedFabric(6):null;
-  const torso=mesh(createRabbitShirtGeometry(),lake?0x73a4be:P.white,0,0,0,body);
-  torso.name='stuffed-rabbit-shirt';
-  if(shirtFabric)torso.material=shirtFabric;
-  // Sleeve segments are attached to shoulder pivots so waving stays coherent.
+  const torso=new T.SkinnedMesh(createRabbitShirtGeometry(),shirtFabric||mat(0x73a4be));
+  torso.name='continuous-rabbit-shirt-and-sleeves';
+  torso.castShadow=true;torso.receiveShadow=true;
+  const rootBone=new T.Bone();torso.add(rootBone);
+  // The shared shirt bends around the shoulder instead of opening a seam.
   const arms=[];
   for(const side of [-1,1]) {
-    const arm=new T.Group();arm.position.set(side*.49,1.26,0);body.add(arm);arm.rotation.z=side*.50;arms.push(arm);
-    const sleeve=oval(lake?0x73a4be:P.white,0,-.21,0,.19,.30,.20,arm);
-    if(sleeveFabric)sleeve.material=sleeveFabric;
+    const arm=new T.Bone();arm.position.set(side*RABBIT_SHOULDER.x,RABBIT_SHOULDER.y,0);
+    arm.rotation.z=side*RABBIT_SHOULDER.angle;rootBone.add(arm);arms.push(arm);
     oval(P.white,0,-.53,.015,.175,.19,.16,arm).name='plush-paw';
   }
+  torso.bind(new T.Skeleton([rootBone,...arms]));body.add(torso);
   if(lake) {
     patch(rounded(-.46,.45,.92,.78,.1),0x73a4be,.19,.035,.025,body);
     for(const side of [-1,1]) {
@@ -150,7 +150,7 @@ export function addRabbit(world,moving,mat,x,z,scale=1,theme=0) {
   }
   const baseY=sitting?.565-seatBottom*scale:.2;g.position.y=baseY;
   // Keep feet/the seated pelvis planted while the head, arms and prop move.
-  moving.push(t=>{g.rotation.y=.32+Math.sin(t*.65)*.045;arms[1].rotation.z=.50+Math.sin(t*1.6)*.045;headPivot.rotation.z=Math.sin(t*.72)*.018;if(plant)plant.rotation.z=.08+Math.sin(t*.8)*.025});
+  moving.push(t=>{g.rotation.y=.32+Math.sin(t*.65)*.045;arms[1].rotation.z=RABBIT_SHOULDER.angle+Math.sin(t*1.6)*.045;headPivot.rotation.z=Math.sin(t*.72)*.018;if(plant)plant.rotation.z=.08+Math.sin(t*.8)*.025});
   return g;
 }
 

diff --git a/src/sky-clouds.js b/src/sky-clouds.js
@@ -1,0 +1,31 @@
+import * as T from 'three';
+import {MarchingCubes} from 'three/addons/objects/MarchingCubes.js';
+
+// Blend the lobes into one surface, so translucent clouds have no sphere seams.
+export function createCloudGeometry(variant=0){
+  const lobes=[[-1.16,-.13,0,.67,.49,.55],[-.48,.15,.03,.83,.72,.69],[.42,.3,0,.79,.87,.68],[1.12,-.08,.02,.68,.52,.53],[0,-.26,.08,1.2,.48,.62]];
+  const resolution=40,extent=2.5,material=new T.MeshBasicMaterial();
+  const field=new MarchingCubes(resolution,material,false,false,16000);field.isolation=0;
+  const blend=(a,b)=>{const h=Math.max(.24-Math.abs(a-b),0)/.24;return Math.min(a,b)-h*h*.24*.25};
+  for(let z=0;z<resolution;z++)for(let y=0;y<resolution;y++)for(let x=0;x<resolution;x++){
+    const px=(x/resolution*2-1)*extent,py=(y/resolution*2-1)*extent,pz=(z/resolution*2-1)*extent;
+    let d=10;
+    for(let i=0;i<lobes.length;i++){
+      const [cx,cy,cz,rx,ry,rz]=lobes[i],offset=Math.sin(variant*2.7+i*1.9)*.13;
+      const q=Math.hypot((px-cx)/(rx*(1+offset)),(py-cy-offset)/ry,(pz-cz)/rz)-1;
+      d=blend(d,q*Math.min(rx,ry,rz));
+    }
+    field.field[x+y*resolution+z*resolution*resolution]=-d;
+  }
+  field.update();
+  const geometry=new T.BufferGeometry(),positions=field.positionArray.slice(0,field.count*3),normals=field.normalArray.slice(0,field.count*3),colors=new Float32Array(field.count*3);
+  for(let i=0;i<positions.length;i+=3){
+    positions[i]*=extent;positions[i+1]*=extent;positions[i+2]*=extent;
+    const length=Math.hypot(normals[i],normals[i+1],normals[i+2])||1;
+    normals[i]/=length;normals[i+1]/=length;normals[i+2]/=length;
+    const soft=Math.max(0,Math.min(1,(positions[i+1]+.65)/1.8));
+    colors[i]=.87+.13*soft;colors[i+1]=.9+.1*soft;colors[i+2]=.95+.05*soft;
+  }
+  geometry.setAttribute('position',new T.BufferAttribute(positions,3));geometry.setAttribute('normal',new T.BufferAttribute(normals,3));geometry.setAttribute('color',new T.BufferAttribute(colors,3));geometry.computeBoundingSphere();
+  field.geometry.dispose();material.dispose();return geometry;
+}

diff --git a/README.md b/README.md
@@ -2,7 +2,7 @@
 
 React + Three.js 制作的互动微缩场景，灵感来自逐梦花园、海上望月与荷你相见三张海报。非官方演示作品。
 
-[查看毛绒花园实际截图](docs/previews/README.md)
+[查看毛绒花园实际截图](docs/previews/README.md) · [天气漫游实际截图](docs/previews/weather-tour.md)
 
 ## 启动
 
@@ -28,6 +28,8 @@ npm run preview -- --port 3000
 - 兔子结合实体公仔与毛绒概念图调整造型：宽领口藏入下巴，窄白衣边接红色条纹，花园背带裤的腰臀与短裤腿连续成型；保留饱满脸颊、立体兔耳、曲面五官与花环。头部摆动以肩颈连接处为轴。
 - 第一个场景采用毛绒与毛毡风格：真实短纤维轮廓、程序化布料纹理、牛仔缝线、毛毡植物、草地及蜜蜂装胡萝卜。
 - 毛绒纤维通过实例化绘制；动画最高 30 帧/秒，花园阴影按需刷新，暂停时只在视角变化后绘制。无需额外外部素材。
+- 左侧「天气漫游」保留晨曦、晴空、落日、雨幕、虹光、飘雪、星夜七种氛围。点击名称直接选择，拖动滑杆平滑过渡；方向键逐项切换，Home / End 到达两端。云朵采用融合的立体曲面，天气颜色与光照同步变化。
+- 兔子的上衣与袖子融合成连续曲面，肩部通过骨骼权重柔和变形，挥手时保持衔接。
 - 右侧工具支持缩放、视角复位、暂停与全屏。
 - 氛围音需用户点击开启，使用 Web Audio 合成柔和音色。
 - 所有模型使用程序化几何生成；字体不可用时自动使用系统字体。

diff --git a/docs/previews/weather-tour.md b/docs/previews/weather-tour.md
@@ -1,0 +1,23 @@
+# 天气漫游 · 浏览器实际截图
+
+天气滑杆是一组可以探索的氛围，不再代表一天的时间线。七个名称分别是晨曦、晴空、落日、雨幕、虹光、飘雪、星夜，原有的雨滴、雷电、彩虹、雪花、积雪与星空都保留。点击名称可直接选择，拖动滑杆仍会平滑过渡。
+
+云朵改为连续的立体云团，使用不同轮廓和柔和的明暗，减少重复球体的接缝与堆叠。以下均来自当前 Three.js 程序，不是概念图。
+
+## 晴空与新的天气选择器
+
+![晴空与天气漫游](weather-tour-desktop.png)
+
+## 飘雪
+
+![飘雪与积雪](weather-tour-snow.png)
+
+## 星空
+
+![星夜氛围](weather-tour-night.png)
+
+## 手机上的虹光
+
+![手机上的天气漫游](weather-tour-mobile.png)
+
+[返回模型与花园截图](README.md)

diff --git a/docs/previews/README.md b/docs/previews/README.md
@@ -6,6 +6,8 @@
 
 第一个场景仍使用短绒纤维、布料纹理、毛毡花草和柔软绒簇地面。下面的模型近景与公园使用同一份 Three.js 模型代码。
 
+天气控制已改为七种可选择的氛围，详见 [天气漫游实际截图](weather-tour.md)。兔子的上衣和袖子已融合成连续曲面，挥手时肩部跟随变形。
+
 ## 花园实机截图
 
 ![毛绒花园浏览器实机截图](plush-garden.png)
@@ -14,7 +16,7 @@
 
 ![毛绒兔子近景](plush-rabbit.png)
 
-## 衔接与裤腿调整前后
+## 肩部衔接调整前后
 
 | 调整前 | 调整后 |
 | --- | --- |
